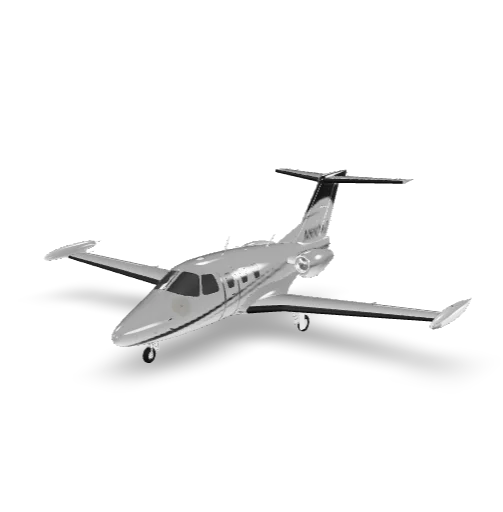
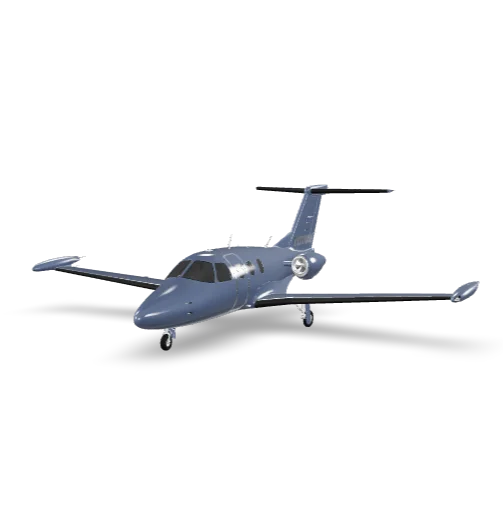
Scale for percentage

Changed region(s): [[0.0596, 0.3125, 0.9543, 0.75]]

diff --git a/index.html b/index.html
@@ -24,9 +24,9 @@
       src="assets/3d-model/model.glb"
       id="model" 
       reveal="auto"
-      ar ar-modes="webxr scene-viewer quick-look" ar-scale="auto"
+      ar ar-modes="webxr scene-viewer quick-look" ar-scale="10"
       camera-controls pan-control 
-      camera-orbit="33.72deg 77.04deg auto"
+      camera-orbit="26.91deg 83.51deg auto"
       environment-image="neutral"
       shadow-intensity="1">
 
